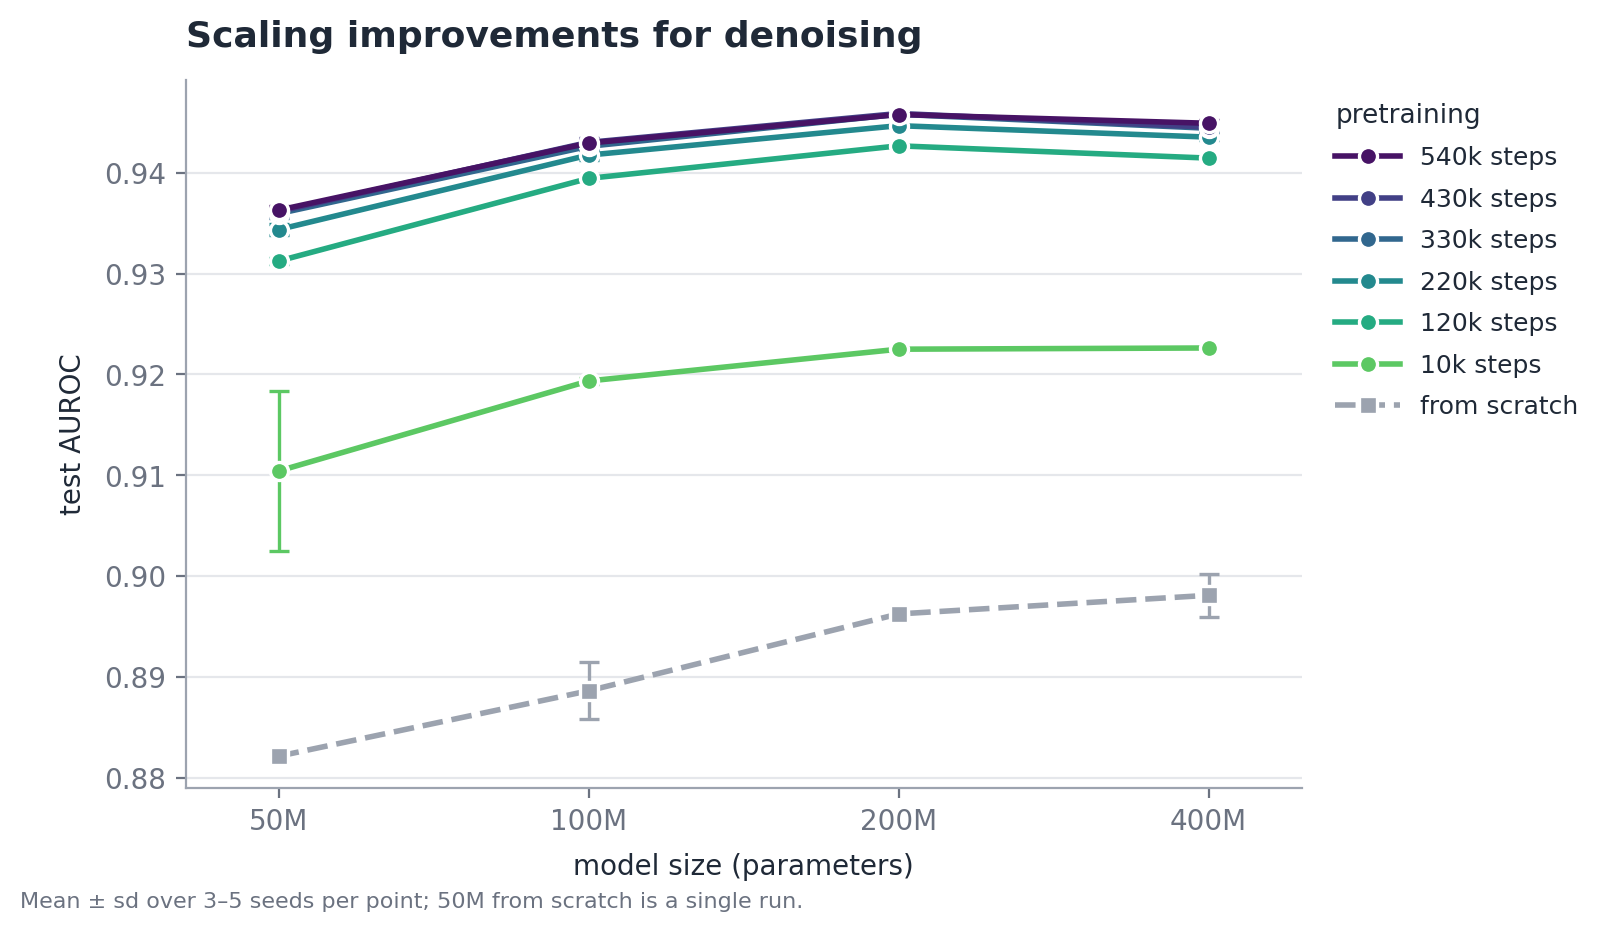
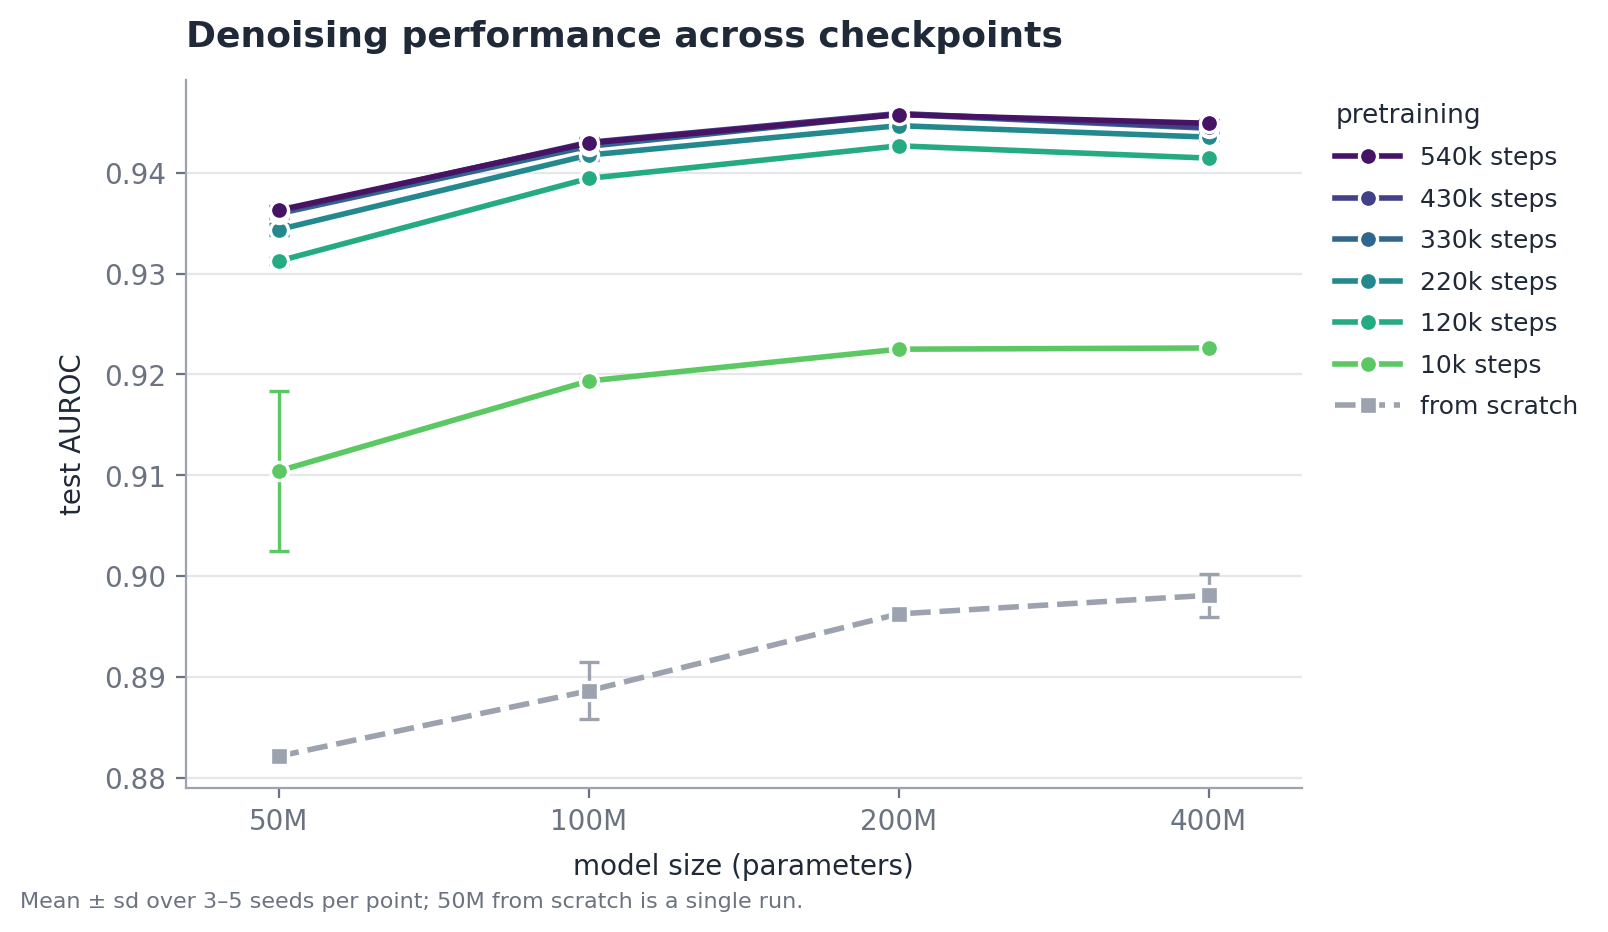
D_denoise title: Denoising performance across checkpoints
Claude-Session: https://claude.ai/code/session_01ATgkXx1oRRqvzB3G8wYeta

Changed region(s): [[0.1244, 0.0, 0.6841, 0.0622]]

diff --git a/paper/experiments/denoise/plot_denoise_scaling.py b/paper/experiments/denoise/plot_denoise_scaling.py
@@ -45,7 +45,7 @@ def main():
             handles.append(Line2D([], [], color=col, lw=2.0, ls=ls, marker=mk, ms=6.5, mec="white", mew=1.2, label=lab))
         ax.set_xticks(xi); ax.set_xticklabels([s.upper() for s in SCALES]); ax.set_xlim(-0.3, len(SCALES) - 0.7)
         ax.set_xlabel("model size (parameters)", labelpad=6); ax.set_ylabel("test AUROC", labelpad=6)
-        ax.set_title("Scaling improvements for denoising", loc="left", fontsize=13, fontweight="bold", pad=12)
+        ax.set_title("Denoising performance across checkpoints", loc="left", fontsize=13, fontweight="bold", pad=12)
         leg = ax.legend(handles=handles[::-1], title="pretraining", frameon=False, fontsize=9, title_fontsize=9.5,
                         loc="upper left", bbox_to_anchor=(1.01, 1.0), handlelength=2.6, labelspacing=0.7)
         leg._legend_box.align = "left"

diff --git a/sweeps/plot_summary.py b/sweeps/plot_summary.py
@@ -145,7 +145,7 @@ def fig_d():
         ax.set_xticks(xi); ax.set_xticklabels([x.upper() for x in xs])
         ax.set_xlim(-0.3, len(xs) - 0.7)
         ax.set_xlabel("model size (parameters)", labelpad=6); ax.set_ylabel("test AUROC", labelpad=6)
-        ax.set_title("Scaling improvements for denoising", loc="left", fontsize=13, fontweight="bold", pad=12)
+        ax.set_title("Denoising performance across checkpoints", loc="left", fontsize=13, fontweight="bold", pad=12)
         leg = ax.legend(handles=handles[::-1], title="pretraining", frameon=False, fontsize=9,
                         title_fontsize=9.5, loc="upper left", bbox_to_anchor=(1.01, 1.0),
                         handlelength=2.6, labelspacing=0.7)
